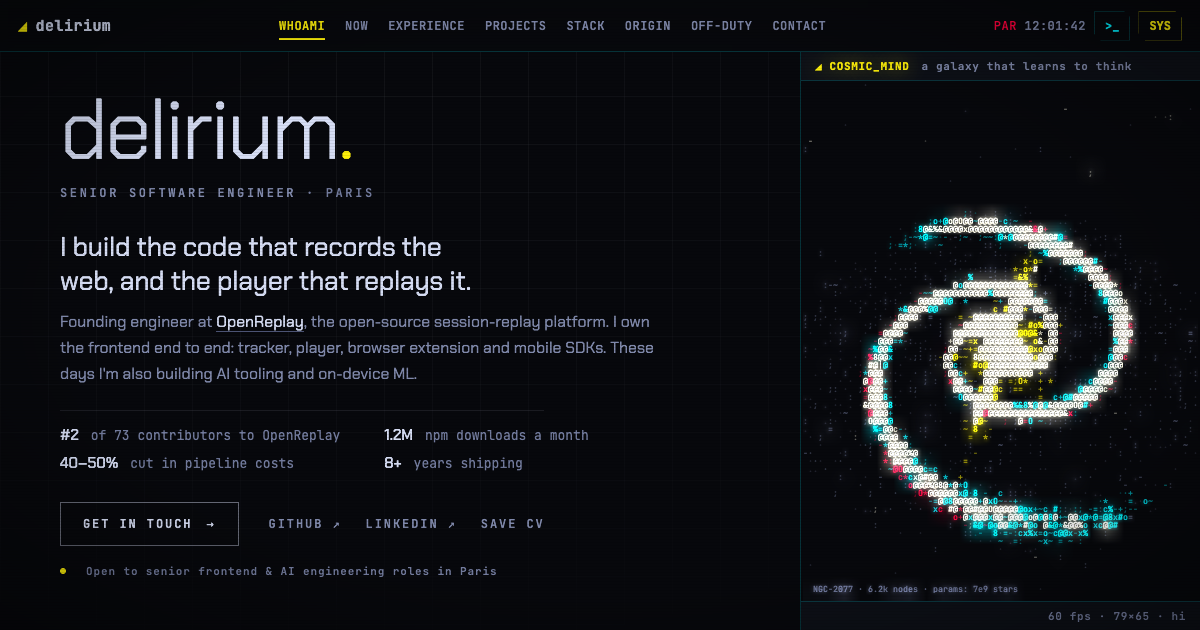
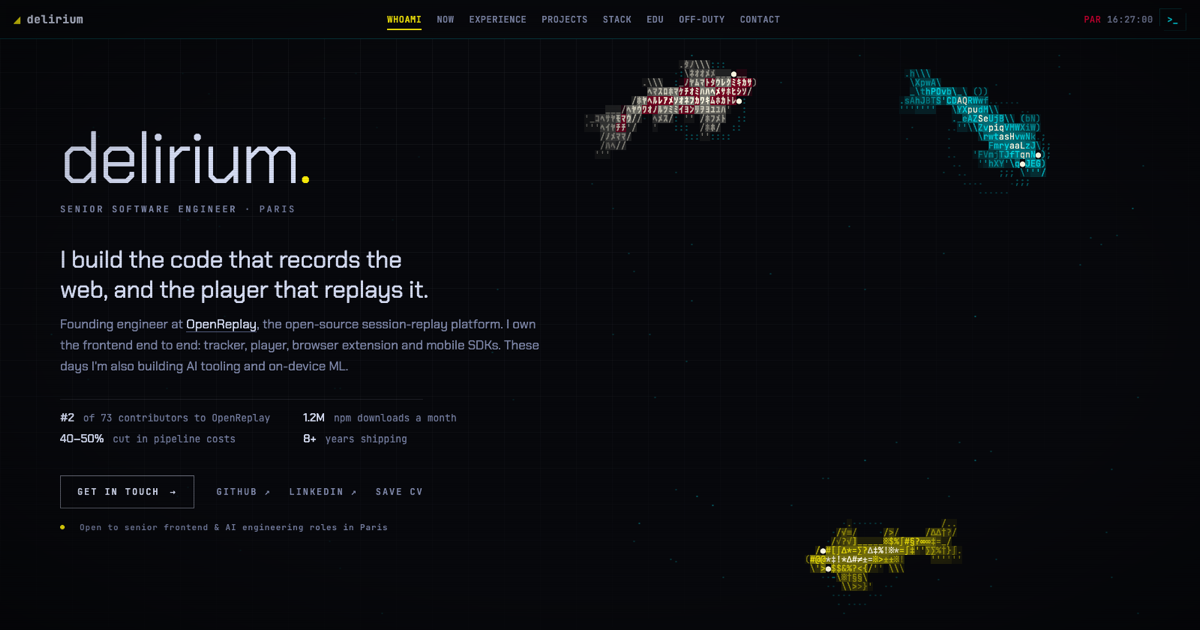
Refresh the link-preview image
New og.png from the current first page: the delirium wordmark, pitch and
stats with the three ASCII koi on the right. The image URL carries ?v=2
so services that cached the old preview fetch the new one, and the tags
now declare its size and alt text, plus a twitter:image.

diff --git a/site/index.html b/site/index.html
@@ -11,7 +11,11 @@
   <meta property="og:title" content="delirium — Senior Software Engineer" />
   <meta property="og:description" content="Founding engineer at OpenReplay. I build the code that records the web and the player that replays it." />
   <meta property="og:url" content="https://nick-delirium.github.io/" />
-  <meta property="og:image" content="https://nick-delirium.github.io/og.png" />
+  <meta property="og:image" content="https://nick-delirium.github.io/og.png?v=2" />
+  <meta property="og:image:width" content="1200" />
+  <meta property="og:image:height" content="630" />
+  <meta property="og:image:alt" content="delirium: Senior Software Engineer, Paris. ASCII koi swimming beside the intro." />
+  <meta name="twitter:image" content="https://nick-delirium.github.io/og.png?v=2" />
   <meta name="twitter:card" content="summary_large_image" />
   <link rel="icon" href="favicon.svg" type="image/svg+xml" />
   <link rel="preconnect" href="https://fonts.googleapis.com" />
